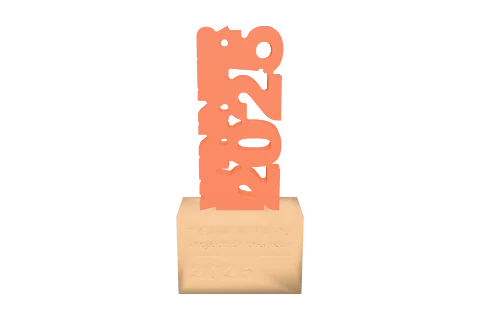
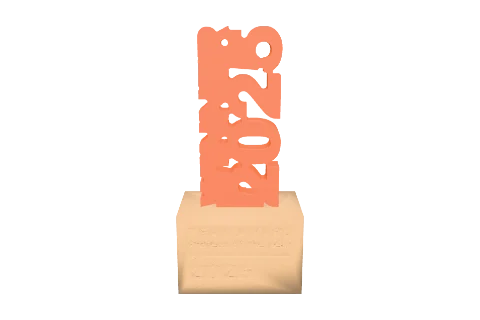
Trophy: solid wood block base
The base is one thick wood block: the laser file has the front face
engraving and the top face with the slot to cut, no stacked sheets.

Claude-Session: https://claude.ai/code/session_01Gur2ukCcF6SV6N7mbFmgcq

diff --git a/src/geometry.ts b/src/geometry.ts
@@ -34,13 +34,11 @@ export interface Params extends LampParams, MoldParams, TileParams, TerraceParam
   tpRaise?: number;
   /** Trophy stack: bridges small gaps between letters so the top is one piece (mm). */
   tpJoin?: number;
-  /** Trophy base: 'layers' = laser-cut wood sheets glued front to back, 'printed' = 3D printed block, 'none'. */
-  tpBase?: 'layers' | 'printed' | 'none';
+  /** Trophy base: 'wood' = a solid wood block (front laser-engraved, slot cut by hand), 'printed' = 3D printed block, 'none'. ('layers' = old name of 'wood'.) */
+  tpBase?: 'wood' | 'layers' | 'printed' | 'none';
   tpBaseW?: number;
   tpBaseH?: number;
   tpBaseD?: number;
-  /** Wood sheet thickness for the layered base (mm). */
-  tpSheet?: number;
   /** Engraved on the base front. */
   tpTitle?: string;
   tpSub?: string;
@@ -295,7 +293,7 @@ export interface BuildResult {
   /** Where each letter sits on the model (model x/y, mm), for picking letters on the canvas. */
   letters: { i: number; x: number; y: number }[];
   /** Laser-cut backing, in model x/y mm: `cut` = board outline and holes, `guide` = where the letters sit. */
-  backing?: { cut: [number, number][][]; guide: [number, number][][]; size: [number, number]; pieces: number; engrave?: [number, number][][]; sheets?: number; what?: string };
+  backing?: { cut: [number, number][][]; guide: [number, number][][]; size: [number, number]; pieces: number; engrave?: [number, number][][]; sheets?: number; what?: string; slot?: [number, number, number] };
 }
 
 interface WorkPart {
@@ -315,6 +313,7 @@ type Deletable = { delete(): void };
 /** Styles built from the plain letter outline, where loose letter pieces would print apart. */
 const JOIN_STYLES = new Set(['sign', 'planter', 'topo', 'facet', 'keychain', 'duo', 'stepped']);
 const OVERLAP = 0.01;
+const fmtN = (v: number) => String(Math.round(v * 10) / 10);
 
 export class Builder {
   private bin: Deletable[] = [];
@@ -1606,18 +1605,17 @@ export class Builder {
    *    becomes a thin column, a year a fat one); small gaps bridged (`tpJoin`) so it is one piece.
    *  - 'badge': a plaque (circle / rounded / shield / bulb, `tpSize`) with the text raised on the
    *    front in colour B.
-   * A foot strip under it slots into the base. Base 'layers' (DEFAULT, user has a laser cutter):
-   * wood sheets (`tpSheet`) glued front to back; the middle sheets have a notch for the foot; the
-   * front sheet is engraved with title / subtitle / a line / year. The laser file (red = cut,
-   * black = engrave) comes back as `backing`. 'printed': a 3D printed block with the text cut in.
+   * A foot strip under it slots into the base. Base 'wood' (DEFAULT; user: "we will use thick wood"):
+   * one solid block; its front is laser-engraved with title / subtitle / a line / year. The laser
+   * file (black = engrave, blue = block edges + the slot to cut on the top face) comes back as
+   * `backing`. 'printed': a 3D printed block with the text cut in.
    */
   private trophy(cs: CrossSection, lines: Vec2[][][], font: Font, p: Params, warnings: string[]): WorkPart[] {
     const W = this.wasm;
     if (cs.isEmpty()) return [];
     const T = clampN(p.tpDepth ?? 12, 2, 40);
     const fit = clampN(p.sdFit ?? 0.2, 0, 1);
-    const base = p.tpBase ?? 'layers';
-    const sheet = clampN(p.tpSheet ?? 3, 1, 20);
+    const base = p.tpBase === 'layers' || !p.tpBase ? 'wood' : p.tpBase;
     const csOf = (loops: Vec2[][]) => this.k(new W.CrossSection(loops as MVec2[][], 'NonZero'));
     let top: CrossSection;
     let raised: CrossSection | null = null;
@@ -1681,9 +1679,9 @@ export class Builder {
     const H = clampN(p.tpBaseH ?? 40, 10, 200);
     const BW = (p.tpBaseW ?? 0) > 0 ? clampN(p.tpBaseW!, 20, 400) : Math.round(Math.max(wid * 1.05, 60));
     const slotD = Math.min(12, H * 0.4);
-    const k = base === 'layers' ? Math.max(1, Math.round(T / sheet)) : 0;
-    const slotT = base === 'layers' ? k * sheet : T;
-    const tabT = Math.max(1, Math.min(T, slotT - 2 * fit));
+    // the foot is the full thickness of the top; the slot is that plus play on each side
+    const tabT = T;
+    const slotT = T + 2 * fit;
     const tabW = Math.min(wid * 0.6, BW - 16);
     const hasBase = base !== 'none';
     const tab = hasBase ? this.extrude(this.rect(cx - tabW / 2, b.min[1] - slotD, cx + tabW / 2, b.min[1] + 6), tabT) : null;
@@ -1700,10 +1698,7 @@ export class Builder {
     if (!hasBase) return parts;
 
     // ----- base -----
-    // layered: whole sheets, the same number in front of and behind the notch so the slot is centred
-    let nS = Math.max(k + 2, Math.round(clampN(p.tpBaseD ?? 40, 10, 200) / sheet));
-    if ((nS - k) % 2) nS++;
-    const D = base === 'layers' ? nS * sheet : clampN(p.tpBaseD ?? 40, 10, 200);
+    const D = Math.max(clampN(p.tpBaseD ?? 40, 10, 200), slotT + 8);
     // engraving on the front, laid out in face coordinates (x 0..BW, y 0..H)
     const engr: CrossSection[] = [];
     const m = Math.max(4, Math.min(8, H * 0.14));
@@ -1732,7 +1727,7 @@ export class Builder {
     if (engrave && engrave.bounds().min[1] < 1) warnings.push('The base text is crowded. Make the base taller or the text shorter.');
     // block with the slot, text cut 0.6 mm into the front (front = −y, toward you)
     let block = this.k(this.extrude(this.rect(-BW / 2, -D / 2, BW / 2, D / 2), H));
-    block = this.k(block.subtract(this.extrude(this.rect(-tabW / 2 - fit, -slotT / 2 - (base === 'layers' ? 0 : fit), tabW / 2 + fit, slotT / 2 + (base === 'layers' ? 0 : fit)), slotD + 1, H - slotD)));
+    block = this.k(block.subtract(this.extrude(this.rect(-tabW / 2 - fit, -slotT / 2, tabW / 2 + fit, slotT / 2), slotD + 1, H - slotD)));
     if (engrave) {
       const cut = this.k(this.k(this.k(engrave.translate([-BW / 2, 0])).extrude(0.6 + OVERLAP)).rotate([90, 0, 0]));
       block = this.k(block.subtract(this.k(cut.translate([0, -D / 2 + 0.6, 0]))));
@@ -1743,25 +1738,17 @@ export class Builder {
       parts.push({ name: 'Base', color: p.colorC ?? '#2b2b2e', m: block, print: pr });
     } else {
       parts.push({ name: 'Wooden base', color: '#c8a27a', previewOnly: true, m: block });
-      // laser file: every sheet side by side; middle sheets have the notch; the front one is engraved
-      const n = Math.round(D / sheet);
-      const first = Math.floor((n - k) / 2);
-      const cutLoops: [number, number][][] = [];
-      const gap = 4;
-      // in rows no wider than ~380 mm so the file fits a common laser bed; sheet 1 (top left) is the front
-      const cols = Math.max(1, Math.floor((380 + gap) / (BW + gap)));
-      for (let i = 0; i < n; i++) {
-        const ox = (i % cols) * (BW + gap);
-        const oy = -Math.floor(i / cols) * (H + gap);
-        const notch = i >= first && i < first + k;
-        const x0 = ox + BW / 2 - tabW / 2 - fit, x1 = ox + BW / 2 + tabW / 2 + fit;
-        const loop: [number, number][] = notch
-          ? [[ox, 0], [ox + BW, 0], [ox + BW, H], [x1, H], [x1, H - slotD], [x0, H - slotD], [x0, H], [ox, H]]
-          : [[ox, 0], [ox + BW, 0], [ox + BW, H], [ox, H]];
-        cutLoops.push(loop.map(([x, y]) => [x, y + oy] as [number, number]));
-      }
+      // laser file for a solid block: the front face engraving (black) inside the face outline
+      // (blue, to line it up on the block), and below it the top face with the slot to cut (blue)
+      const sw = tabW + 2 * fit;
+      const oy = -(D + 8);
+      const guide: [number, number][][] = [
+        [[0, 0], [BW, 0], [BW, H], [0, H]],
+        [[0, oy], [BW, oy], [BW, oy + D], [0, oy + D]],
+        [[BW / 2 - sw / 2, oy + D / 2 - slotT / 2], [BW / 2 + sw / 2, oy + D / 2 - slotT / 2], [BW / 2 + sw / 2, oy + D / 2 + slotT / 2], [BW / 2 - sw / 2, oy + D / 2 + slotT / 2]],
+      ];
       const eng = engrave ? (engrave.toPolygons() as [number, number][][]) : [];
-      this.laser = { cut: cutLoops, guide: [], engrave: eng, size: [BW, H], pieces: n, sheets: n, what: `${n} sheets of ${sheet} mm` };
+      this.laser = { cut: [], guide, engrave: eng, size: [BW, H], pieces: 1, what: `wood block ${fmtN(BW)} × ${fmtN(D)} × ${fmtN(H)} mm`, slot: [sw, slotT, slotD] };
     }
     return parts;
   }

diff --git a/src/main.ts b/src/main.ts
@@ -156,14 +156,13 @@ const STYLE_CONTROLS: Record<Style, Control[]> = {
     { kind: 'range', key: 'tpRaise', label: 'Raised text height', min: 0, max: 6, step: 0.2, unit: 'mm' },
     { kind: 'range', key: 'tpJoin', label: 'Join gaps', min: 0, max: 6, step: 0.1, unit: 'mm', hint: 'Fills small gaps between letters so the top prints as one piece.' },
     { kind: 'heading', key: 'style', label: 'Base' },
-    { kind: 'select', key: 'tpBase', label: 'Base', options: [['layers', 'Laser-cut wood'], ['printed', '3D printed'], ['none', 'No base']], hint: 'Laser-cut wood: sheets glued front to back, the front one engraved. Download the laser file in the Finish step.' },
+    { kind: 'select', key: 'tpBase', label: 'Base', options: [['wood', 'Wood block'], ['printed', '3D printed'], ['none', 'No base']], hint: 'Wood block: a solid piece of thick wood, the front laser-engraved. Download the laser file in the Finish step.' },
     { kind: 'text', key: 'tpTitle', label: 'Engraved title', placeholder: 'e.g. TEAM AWARD' },
     { kind: 'text', key: 'tpSub', label: 'Engraved line 2', placeholder: 'e.g. Project of the year' },
     { kind: 'text', key: 'tpYear', label: 'Engraved year', placeholder: 'e.g. 2025' },
     { kind: 'range', key: 'tpBaseW', label: 'Base width', min: 0, max: 250, step: 1, unit: 'mm', hint: '0 = as wide as the top.' },
     { kind: 'range', key: 'tpBaseH', label: 'Base height', min: 15, max: 100, step: 1, unit: 'mm' },
     { kind: 'range', key: 'tpBaseD', label: 'Base depth', min: 15, max: 100, step: 1, unit: 'mm' },
-    { kind: 'range', key: 'tpSheet', label: 'Wood sheet thickness', min: 1.5, max: 10, step: 0.5, unit: 'mm' },
     { kind: 'range', key: 'sdFit', label: 'Slot play', min: 0, max: 0.6, step: 0.05, unit: 'mm', hint: 'Extra room in the slot on each side.' },
   ],
   standee: [
@@ -501,7 +500,8 @@ async function run() {
       const bn = $('#backing-note');
       bn.hidden = !params.backOn && !(params.style === 'trophy' && lastBacking);
       if (params.style === 'trophy' && lastBacking) {
-        bn.textContent = `Base: ${lastBacking.what}, each ${fmt(lastBacking.size[0])} × ${fmt(lastBacking.size[1])} mm. Glue them front to back; the engraved one goes in front. Red = cut, black = engrave.`;
+        const sl = lastBacking.slot;
+        bn.textContent = `Base: ${lastBacking.what} (wide × deep × tall). Engrave the front (black). Blue = the block edges, and on the top face the slot to cut${sl ? `: ${fmt(sl[0])} × ${fmt(sl[1])} mm, ${fmt(sl[2])} mm deep` : ''}.`;
       } else if (params.backOn) {
         bn.textContent = lastBacking
           ? `Board ${fmt(lastBacking.size[0])} × ${fmt(lastBacking.size[1])} mm. Red lines are cuts, blue lines are the letter guide.`
@@ -765,7 +765,7 @@ function renderStyleControls() {
   if (params.style === 'flower') list = list.filter((c) => c.key !== 'flGap' || params.flLayout === 'row');
   if (params.style === 'trophy') {
     const badge = params.tpShape === 'badge';
-    list = list.filter((c) => !((badge && c.key === 'tpJoin') || (!badge && ['tpBadge', 'tpSize', 'tpRaise'].includes(c.key)) || (params.tpBase === 'none' && ['tpTitle', 'tpSub', 'tpYear', 'tpBaseW', 'tpBaseH', 'tpBaseD', 'tpSheet', 'sdFit'].includes(c.key)) || (params.tpBase !== 'layers' && c.key === 'tpSheet')));
+    list = list.filter((c) => !((badge && c.key === 'tpJoin') || (!badge && ['tpBadge', 'tpSize', 'tpRaise'].includes(c.key)) || (params.tpBase === 'none' && ['tpTitle', 'tpSub', 'tpYear', 'tpBaseW', 'tpBaseH', 'tpBaseD', 'sdFit'].includes(c.key))));
   }
   if (params.style === 'standee') list = list.filter((c) => (params.sdStand !== 'none' || !['sdStandD', 'sdFit'].includes(c.key)) && !(params.sdLetters === 'solid' && c.key === 'sdLine'));
   if (params.style === 'tile') list = list.filter((c) => !(params.tlMake === 'cutter' && (c.key === 'tlDraft' || c.key === 'tlWall')));
@@ -1006,7 +1006,7 @@ const BACKING_CONTROLS: Control[] = [
 
 function renderBacking() {
   const sec = $('#backing-section');
-  sec.hidden = noText() || params.style === 'book' || (params.style === 'trophy' && params.tpBase !== 'layers');
+  sec.hidden = noText() || params.style === 'book' || (params.style === 'trophy' && (params.tpBase === 'printed' || params.tpBase === 'none'));
   const host = $('#backing-controls');
   host.innerHTML = '';
   if (params.style === 'trophy') {

diff --git a/src/defaults.ts b/src/defaults.ts
@@ -156,11 +156,10 @@ export const DEFAULTS: Params = {
   tpDepth: 12,
   tpRaise: 2,
   tpJoin: 1.5,
-  tpBase: 'layers',
+  tpBase: 'wood',
   tpBaseW: 0,
   tpBaseH: 40,
-  tpBaseD: 30,
-  tpSheet: 3,
+  tpBaseD: 40,
   tpTitle: 'TEAM AWARD',
   tpSub: 'Project of the year',
   tpYear: '2025',

diff --git a/CLAUDE.md b/CLAUDE.md
@@ -133,13 +133,14 @@ Top piece printed flat, preview standing in the base (rotated 90° about X like 
 is CCW), all stretched to the same height, side by side touching (long word = thin column, year =
 fat column), closed by `tpJoin` so it is one piece. 'badge': circle / rounded / shield / bulb
 (`tpSize`) with the text raised (`tpRaise`, colour B), scaled to fit. Foot strip (60 % width,
-flush with the back, `slotT − 2·sdFit` thick) into the base. `tpBase` 'layers' (DEFAULT): wood
-sheets `tpSheet` glued front to back (same count in front of/behind the notch sheets, k =
-round(T/sheet) notch sheets), front sheet engraved with `tpTitle`/`tpSub`/line/`tpYear` (laid out
-with the design font). Laser file comes back as `BuildResult.backing` with `engrave` loops (black
-fill in SVG, ENGRAVE layer in DXF), `what` = "N sheets of t mm"; sheets in rows ≤ 380 mm. The
-Finish step shows "Wooden base (laser)" with the SVG/DXF buttons. 'printed': box with slot and
-the text cut 0.6 mm into the front, printed front-up (colour C). Not bed-split.
+full thickness T) into a slot T + 2·`sdFit` wide. `tpBase` 'wood' (DEFAULT; user: "we will use
+thick wood, no box-like design"): ONE solid wood block (`tpBaseW` 0 = auto / `tpBaseH` /
+`tpBaseD`); laser file = the front face engraving (black: `tpTitle`/`tpSub`/line/`tpYear`, laid out
+with the design font) inside the face outline (blue, to line it up), and the top face with the slot
+outline (blue) to mark and cut by hand. Comes back as `BuildResult.backing` (cut empty, `engrave`
+loops, `what`, `slot` [w, t, depth]); SVG black fill / DXF ENGRAVE layer. Old saved value 'layers'
+(stacked sheets, removed) is read as 'wood'. 'printed': box with slot and the text cut 0.6 mm into
+the front, printed front-up (colour C). Not bed-split.
 Flower wall art idea has the wooden backing on by default (user: "flower words need a laser backing").
 
 ## Word stand (`Builder.standee`, user photo of a pink "THANK YOU FOR BEING YOU" desk piece; own design)
